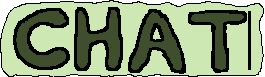
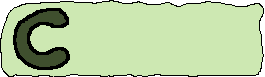
Added title animations and images for sidebars

Changed region(s): [[0.2717, 0.0779, 0.7245, 0.961], [0.6943, 0.1299, 0.966, 0.961]]

diff --git a/src/app/platform/chat/page.jsx b/src/app/platform/chat/page.jsx
@@ -1,12 +1,13 @@
 "use client"
 import { useState, useContext, useEffect, useRef, useLayoutEffect } from "react"
 import ThemeContext from "src/assets/ThemeContext.js"
+import Animation from "src/components/Animation"
 
 import { getUniqueMessageID, uploadFilesReq, getOlderMessagesReq } from "backend/requests.js"
 import styles from "styles/platform/Chat.module.css"
 
 function Chat(){
-  const {externalChatRef, sendJsonMessage, roomID, roomIDRef, messagesRef, username, userInfo, userStates, setUserStates, siteHistoryRef} = useContext(ThemeContext)
+  const {externalChatRef, sendJsonMessage, roomID, roomIDRef, messagesRef, username, userInfo, userStates, setUserStates, siteHistoryRef, darkMode} = useContext(ThemeContext)
 
   const mainScrollableRef = useRef(null)
   const lazyLoading = useRef({
@@ -27,8 +28,6 @@ function Chat(){
 
   const [groupedMessages, setGroupedMessages] = useState([])
   const [mappedMessages, setMappedMessages] = useState({})
-
-  const [darkMode, setDarkMode] = useState(false)  
   /*
 
   Message Structure:
@@ -484,28 +483,11 @@ function Chat(){
     }
   }
 
-  // Toggle dark/light mode
-  function toggleAppearance(e){
-    setDarkMode(e.target.checked)
-    const toggleElem = document.querySelector(`.${styles.toggleAppearance}`)
-    if (e.target.checked){ 
-      toggleElem.classList.add(`${styles.enableDarkMode}`)
-    }else{
-      toggleElem.classList.remove(`${styles.enableDarkMode}`)
-    }
-  }
  
   return(
     <div className={styles.chatPage}>
       <h1 className={styles.title}>
-        <img src="/9.png" alt="f" />
-        <label className={styles.toggleAppearance}>
-          <input 
-          type="checkbox"
-          onClick={toggleAppearance}
-          />
-          <span></span>
-        </label>
+        <Animation key={darkMode ? "dark" : "light"} path={darkMode ? "/dark/chat?20" : "/light/chat?20"} type="once" speed={5}/> 
       </h1>
       <section ref={mainScrollableRef} className={styles.chatDisplay}> 
         {
@@ -568,11 +550,9 @@ function Chat(){
               <input ref={filesRef} type="file" multiple hidden
             accept='.png,.jpg,.jpeg,.webp,.docx,.doc,.txt,.csv,.pdf,.odt,.md,.gif,.mp3,.mp4,.html,.zip'/>
             </label>
-
+ 
             <textarea className={styles.chatInput} placeholder="Type new message..." value={newMessage} onChange={(e)=>setNewMessage(e.target.value)}/>
-            <button onClick={handleMessage}>
-            <img src="" alt="send" />
-            </button>
+            <Animation path={"/submit?3"} type="button" speed={20} onClick={handleMessage}/>
           </section>
         }
     </div>

diff --git a/src/components/Animation.jsx b/src/components/Animation.jsx
@@ -1,35 +1,70 @@
 import { useEffect, useRef } from "react"
 
-function Animation({path, type="loop"}){
+function Animation({path, type="loop", speed=1, onClick=null}){
     const imgRef = useRef(null)
     const frame = useRef(0);
 
-    useEffect(()=>{        
+    useEffect(()=>{
         const [folder, numFiles] = path.split("?");
         
         let raf
+        let dt = Date.now()
         const updateImg = ()=>{
-            imgRef.current.src = `${folder}/${frame.current}.png`
-            frame.current += 1
+            if (!imgRef.current){
+                raf = requestAnimationFrame(updateImg)
+                return
+            }
+            const currTime = Date.now()
+            imgRef.current.src = `${folder}/${Math.floor(frame.current)}.png`
+            frame.current += ((currTime - dt) / 1000) * speed
+            dt = currTime
 
             if (frame.current >= Number(numFiles)){
                 frame.current = 0
-                if (type === "once"){ 
+                if (type !== "loop"){ 
                     return
                 }
             }
             raf = requestAnimationFrame(updateImg)
         }
-        updateImg()
+        if (type !== "button"){
+            updateImg()
+        }
+        
 
         return () => {
             cancelAnimationFrame(raf)
         }
     }, [])
 
+    function replay(){
+        onClick()
+        frame.current = 1
+        const [folder, numFiles] = path.split("?");
+        
+        let raf
+        let dt = Date.now()
+        const updateImg = ()=>{
+            const currTime = Date.now()
+            imgRef.current.src = `${folder}/${Math.floor(frame.current)}.png`
+            frame.current += ((currTime - dt) / 1000) * speed
+            dt = currTime
+
+            if (frame.current >= Number(numFiles)){
+                frame.current = 0
+                requestAnimationFrame(()=>{
+                    imgRef.current.src = `${folder}/0.png`
+                })
+                return
+            }
+            raf = requestAnimationFrame(updateImg)
+        }
+        updateImg()
+    }
+    
     return(
         <>
-            <img ref={imgRef} src="" alt="animation"/>
+            <img ref={imgRef} src={`${path.split("?")[0]}/0.png`} onClick={replay} alt="animation"/>
         </>
     )
 }

diff --git a/styles/platform/Chat.module.css b/styles/platform/Chat.module.css
@@ -9,14 +9,13 @@
   transition: color .1s, background-color .1s;
 }
 .title{
+  padding: 5px;
   border-bottom: 1px solid;
   margin: 0; 
-  text-align: center;
-
-  font-family: 'Gill Sans', 'Gill Sans MT', Calibri, 'Trebuchet MS', sans-serif;
-  font-size: 3.5rem;
-
-  position: relative;
+  height: 100px;
+  display: flex;
+  justify-content: center;
+  align-items: end;
 }
 
 .chatDisplay{
@@ -32,42 +31,6 @@
   }
 }
 
-.toggleAppearance{
-  border: 1px solid;
-  display: block;
-  width: 40px;
-  height: 20px;
-  border-radius: 10px;
-  position: relative;
-  background-color: white;
-  transition: background-color .1s, border .1s;
-
-  position: absolute;
-  right: 30px;
-  top: 5px;
-}
-.toggleAppearance span{
-  display: block;
-  position: absolute;
-  top: 0;
-  left: 0;
-  height: 100%;
-  aspect-ratio: 1/1;
-  border-radius: 50%;
-  border: 1px solid;
-  background-color: white;
-  transition: transform .1s;
-}
-.enableDarkMode{
-  background-color: rgb(29, 5, 136);
-  border: 1px solid white;
-}
-.enableDarkMode span{
-  transform: translateX(100%);
-}
-.toggleAppearance input{
-  opacity: 0;
-}
 
 .messageContainer{
   display: flex;

diff --git a/src/app/platform/MainDisplay.jsx b/src/app/platform/MainDisplay.jsx
@@ -17,6 +17,7 @@ function MainDisplay({children, username, initialUserInfo}){
   const [userStates, setUserStates] = useState({
     [username]: {"avatar": initialUserInfo["avatar"]}
   })
+  const [darkMode, setDarkMode] = useState(false)
 
   const messagesRef= useRef([])
   const savedCanvasInfoRef = useRef({
@@ -123,7 +124,7 @@ function MainDisplay({children, username, initialUserInfo}){
   },roomID !== "")
 
   const shared = {
-    siteHistoryRef ,username,userInfo, setUserInfo, userStates, setUserStates,
+    siteHistoryRef ,username,userInfo, setUserInfo, userStates, setUserStates, setDarkMode, darkMode,
     sendJsonMessage, savedCanvasInfoRef, device, callOffers, setCallOffers, callOffersRef, stunCandidates,
     externalWhiteboardRef,externalChatRef, externalGroupcallRef, externalPeercallRef,
     roomID, setRoomID,roomIDRef,
@@ -153,6 +154,7 @@ function MainDisplay({children, username, initialUserInfo}){
     externalWhiteboardRef.current("canvasReceived")
     siteHistoryRef.current["canvasHistoryReceived"] = true;
   }
+
 
   function updateUserStates(data){
     switch (data.type){

diff --git a/src/app/platform/whiteboard/page.jsx b/src/app/platform/whiteboard/page.jsx
@@ -1,14 +1,14 @@
 "use client"
 import { useRef, useEffect, useContext } from "react"
 import ThemeContext from "src/assets/ThemeContext"
-
+import Animation from "src/components/Animation"
 import styles from "styles/platform/Whiteboard.module.css"
 
 import { draw, fill, clear } from "utils/canvasArt.js"
 import { throttle } from "utils/miscellaneous.js"
 
 function Whiteboard(){
-  const {sendJsonMessage, roomID, externalWhiteboardRef, username, savedCanvasInfoRef} = useContext(ThemeContext)
+  const {sendJsonMessage, roomID, externalWhiteboardRef, username, savedCanvasInfoRe, darkMode} = useContext(ThemeContext)
 
   const canvasRef = useRef(null)
   const cxtRef = useRef(null)
@@ -334,7 +334,7 @@ function Whiteboard(){
   return (
     <div className={styles.whiteboardPage}>
       <h1 className={styles.title}>
-        Whiteboard
+        <Animation key={darkMode ? "dark" : "light"} path={darkMode ? "/dark/whiteboard?34" : "/light/whiteboard?34"} type="once" speed={10}/> 
       </h1>
       {roomID &&
       <div className={styles.mainContent}>

diff --git a/src/components/AccountHub.jsx b/src/components/AccountHub.jsx
@@ -10,7 +10,7 @@ import JoinRoom from "./JoinRoom"
 import ChooseImage from "./ChooseImage"
 
 function AccountHub(){
-  const {roomID, setRoomID, username, userInfo, setUserInfo, sendJsonMessage} = useContext(ThemeContext)
+  const {roomID, setRoomID, username, userInfo, setUserInfo, sendJsonMessage, setDarkMode} = useContext(ThemeContext)
   const [isCreatingRoom, setIsCreatingRoom] = useState(false)
   const [isLoadingRoom, setIsLoadingRoom] = useState(false)
 
@@ -19,6 +19,16 @@ function AccountHub(){
   return(
     <div className={styles.accountHub}>
       {roomID}
+        <label className={styles.toggleAppearance}>
+          dark mode
+          <input 
+          type="checkbox"
+          onClick={(e)=>setDarkMode(e.target.checked)
+
+          }
+          /> 
+          <span></span>
+        </label>
       <section className={styles.header}>
         <span className={`profilePic ${styles.changeImage}`} onClick={()=>setIsChangingImage(!isChangingImage)}>
           <img src={userInfo["avatar"]} alt="nth" />

diff --git a/src/app/platform/videochat/page.jsx b/src/app/platform/videochat/page.jsx
@@ -2,15 +2,16 @@
 import React, { useContext, useEffect, useRef, useState } from "react"
 import ThemeContext from "src/assets/ThemeContext"
 import styles from "styles/platform/VideoChat.module.css"
-
+import Animation from "src/components/Animation"
 import { useRouter } from "next/navigation"
 function VideoChat(){
   const router = useRouter()
+  const {darkMode} = useContext(ThemeContext)
 
   return(
     <div className={styles.videochatPage}>
       <h1 className={styles.title}>
-        Videochat 
+        <Animation key={darkMode ? "dark" : "light"} path={darkMode ? "/dark/videochat?18" : "/light/videochat?18"} type="once" speed={4}/> 
       </h1>
       <button onClick={()=>router.push(`/platform/videochat/peercall`)}>Call a Peer</button>
       <button onClick={()=>router.push("/platform/videochat/groupcall")}>Join Group Call</button>
@@ -18,4 +19,4 @@ function VideoChat(){
   )
 }
 
-export default VideoChat
+export default VideoChat 

diff --git a/styles/components/AccountHub.module.css b/styles/components/AccountHub.module.css
@@ -27,3 +27,32 @@
 
 .createRoom{
 } 
+.toggleAppearance{
+  /* border: 1px solid;
+  display: block;
+  width: 40px;
+  height: 20px;
+  border-radius: 10px;
+  position: relative;
+  background-color: white;
+  transition: background-color .1s, border .1s;
+
+  position: absolute;
+  right: 30px;
+  top: 5px; */
+}
+/* .toggleAppearance span{
+  display: block;
+  position: absolute;
+  top: 0;
+  left: 0;
+  height: 100%;
+  aspect-ratio: 1/1;
+  border-radius: 50%;
+  border: 1px solid;
+  background-color: white;
+  transition: transform .1s;
+}
+.toggleAppearance input{
+  opacity: 0;
+} */

diff --git a/styles/platform/Whiteboard.module.css b/styles/platform/Whiteboard.module.css
@@ -6,12 +6,13 @@
   flex: 1;
 }
 .title{
-  border: 1px solid;
-  margin: 0;
-  text-align: center;
-
-  font-family: 'Gill Sans', 'Gill Sans MT', Calibri, 'Trebuchet MS', sans-serif;
-  font-size: 3.5rem;
+  padding: 5px;
+  border-bottom: 1px solid;
+  margin: 0; 
+  height: 100px;
+  display: flex;
+  justify-content: center;
+  align-items: end;
 }
 
 .mainContent{
@@ -22,7 +23,7 @@
 .whiteboardContainer{
   flex: 1;
   position: relative;
-  display: flex;
+  display: flex; 
 }
 .whiteboardScrollable{
   flex: 1;

diff --git a/styles/platform/VideoChat.module.css b/styles/platform/VideoChat.module.css
@@ -6,10 +6,11 @@
   flex: 1;
 }
 .title{
-  border: 1px solid;
+  padding: 5px;
+  border-bottom: 1px solid;
   margin: 0; 
-  text-align: center;
-
-  font-family: 'Gill Sans', 'Gill Sans MT', Calibri, 'Trebuchet MS', sans-serif;
-  font-size: 3.5rem;
+  height: 100px;
+  display: flex;
+  justify-content: center;
+  align-items: end;
 }
